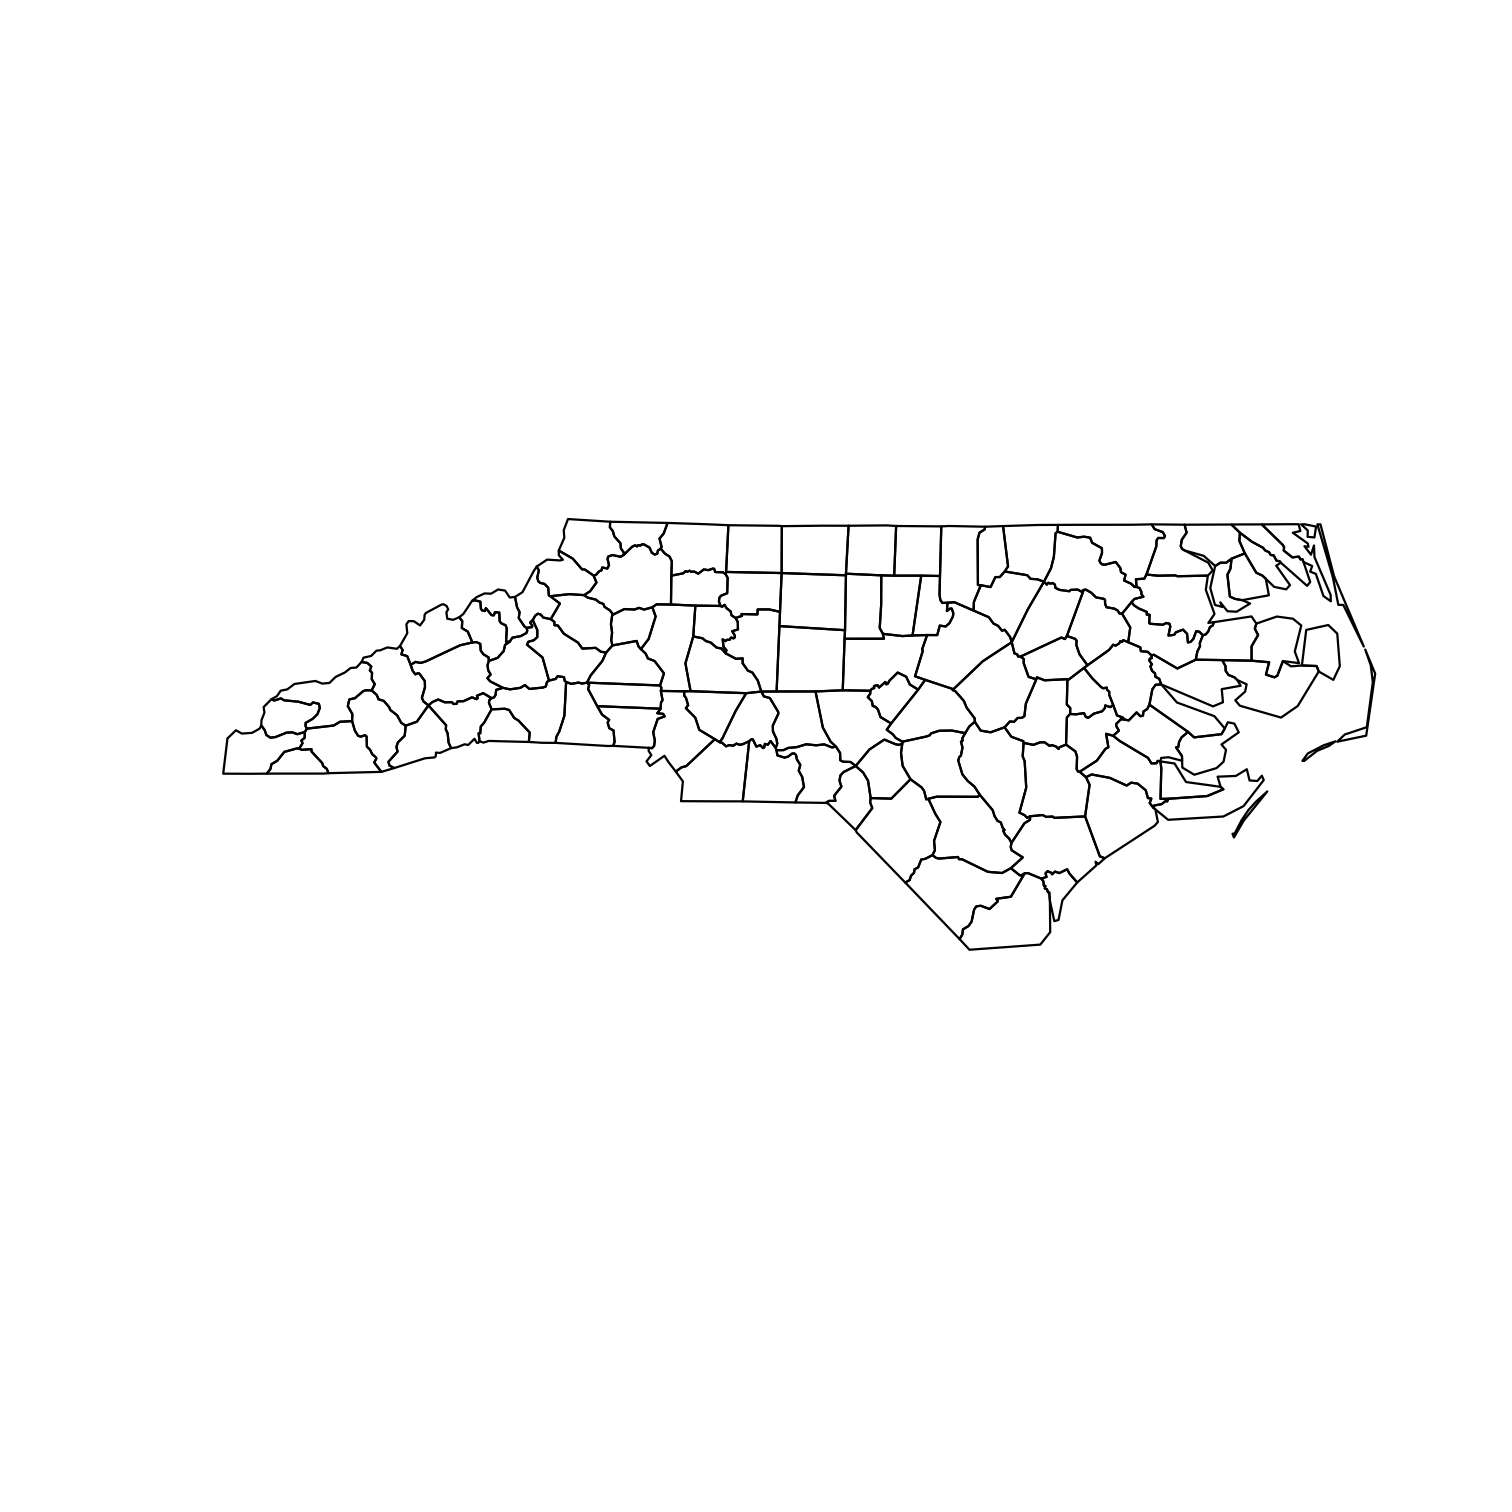
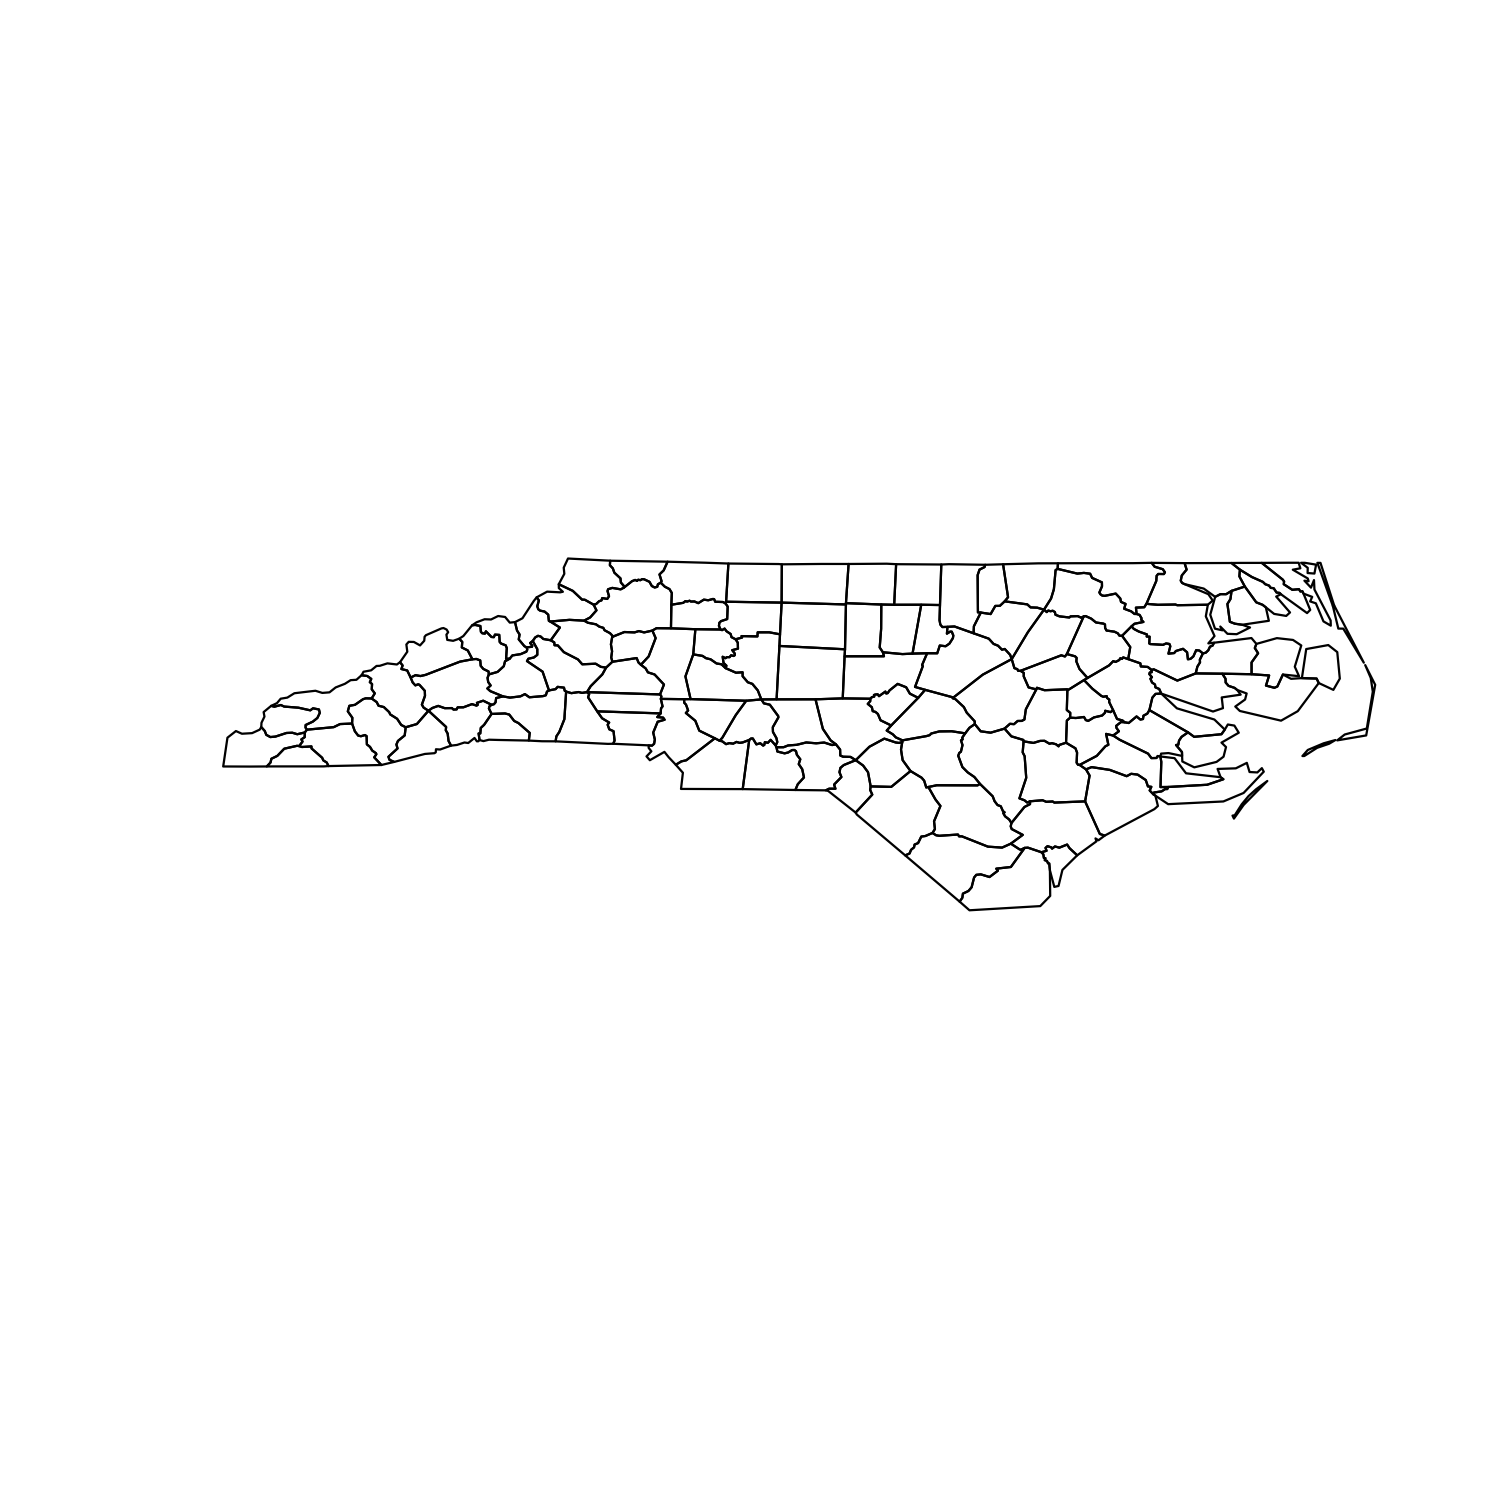
projection example

Changed region(s): [[0.1554, 0.3419, 0.9325, 0.6217]]

diff --git a/static/slides/02-slides.html b/static/slides/02-slides.html
@@ -5,7 +5,7 @@
     <meta charset="utf-8" />
     <meta name="author" content="Matt Williamson" />
     <meta name="date" content="2021-08-31" />
-    <script src="libs/header-attrs-2.10/header-attrs.js"></script>
+    <script src="libs/header-attrs-2.9/header-attrs.js"></script>
     <link href="libs/remark-css-0.0.1/default.css" rel="stylesheet" />
     <link rel="stylesheet" href="css/mawtheme2.css" type="text/css" />
     <link rel="stylesheet" href="css/animate.css" type="text/css" />
@@ -214,8 +214,23 @@ name: crs
 
 - Lots of projection info available at [spatialreference.org](https://spatialreference.org/)
 ---
+# The Coordinate Reference System
+
+### PROJ4 (deprecated)
+
+`+proj=eqc +lat_ts=0 +lat_0=0 +lon_0=0 +x_0=0 +y_0=0 +datum=WGS84 +units=m +no_defs`
+
+### EPSG
+
+`EPSG:4087`
+
+### WKT
+
+`PROJCS["WGS 84 / World Equidistant Cylindrical",GEOGCS["WGS 84",DATUM["WGS_1984",SPHEROID["WGS 84",6378137,298.257223563,AUTHORITY["EPSG","7030"]],AUTHORITY["EPSG","6326"]],PRIMEM["Greenwich",0,AUTHORITY["EPSG","8901"]],UNIT["degree",0.0174532925199433,AUTHORITY["EPSG","9122"]],AUTHORITY["EPSG","4326"]],PROJECTION["Equirectangular"],PARAMETER["latitude_of_origin",0],PARAMETER["central_meridian",0],PARAMETER["false_easting",0],PARAMETER["false_northing",0],UNIT["metre",1,AUTHORITY["EPSG","9001"]],AXIS["X",EAST],AXIS["Y",NORTH],AUTHORITY["EPSG","4087"]]`
+
+---
 # The Coordinate Reference System (CRS)
-Using NAD27, a geodetic datum
+Using WGS84 World Equidistant Cylindrical
 
 .pull-left[
 
@@ -228,7 +243,7 @@ nc.sf &lt;-  st_read(
 
 ```
 ## Reading layer `sids' from data source 
-##   `/Library/Frameworks/R.framework/Versions/4.0/Resources/library/maptools/shapes' 
+##   `/Library/Frameworks/R.framework/Versions/4.1/Resources/library/maptools/shapes' 
 ##   using driver `ESRI Shapefile'
 ## Simple feature collection with 100 features and 14 fields
 ## Geometry type: MULTIPOLYGON
@@ -238,7 +253,9 @@ nc.sf &lt;-  st_read(
 ```
 
 ```r
-st_crs(nc.sf) = 4267
+nc.sf &lt;- nc.sf %&gt;% 
+  st_set_crs(4267) %&gt;% 
+  st_transform(4087)
 #plot(st_geometry(nc.sf))
 ```
 ]
@@ -248,9 +265,8 @@ st_crs(nc.sf) = 4267
 
 ]
 ---
-# Projection: The Datum
-
-Using NAD83 for North Carolina
+# The Coordinate Reference System (CRS)
+Using NAD27 a local geodetic datum for North America
 
 .pull-left[
 
@@ -263,7 +279,7 @@ nc.sf &lt;-  st_read(
 
 ```
 ## Reading layer `sids' from data source 
-##   `/Library/Frameworks/R.framework/Versions/4.0/Resources/library/maptools/shapes' 
+##   `/Library/Frameworks/R.framework/Versions/4.1/Resources/library/maptools/shapes' 
 ##   using driver `ESRI Shapefile'
 ## Simple feature collection with 100 features and 14 fields
 ## Geometry type: MULTIPOLYGON
@@ -273,13 +289,86 @@ nc.sf &lt;-  st_read(
 ```
 
 ```r
-st_crs(nc.sf) = 3358
+nc.sf &lt;- nc.sf %&gt;% 
+  st_set_crs(4267) 
 #plot(st_geometry(nc.sf))
 ```
 ]
 
 .pull-right[
 &lt;img src="02-slides_files/figure-html/plotproj2-1.png" width="504" style="display: block; margin: auto;" /&gt;
+
+]
+---
+# The Coordinate Reference System (CRS)
+Using NAD83 adjusted for North Carolina
+
+.pull-left[
+
+```r
+library(sf)
+nc.sf &lt;-  st_read(
+  system.file("shapes/", package="maptools"), 
+  "sids")
+```
+
+```
+## Reading layer `sids' from data source 
+##   `/Library/Frameworks/R.framework/Versions/4.1/Resources/library/maptools/shapes' 
+##   using driver `ESRI Shapefile'
+## Simple feature collection with 100 features and 14 fields
+## Geometry type: MULTIPOLYGON
+## Dimension:     XY
+## Bounding box:  xmin: -84.32385 ymin: 33.88199 xmax: -75.45698 ymax: 36.58965
+## CRS:           NA
+```
+
+```r
+nc.sf &lt;- nc.sf %&gt;% 
+  st_set_crs(4267) %&gt;% 
+  st_transform(3358)
+#plot(st_geometry(nc.sf))
+```
+]
+
+.pull-right[
+&lt;img src="02-slides_files/figure-html/plotproj3-1.png" width="504" style="display: block; margin: auto;" /&gt;
+
+]
+---
+# The Coordinate Reference System (CRS)
+Using UTM Zone 17N
+
+.pull-left[
+
+```r
+library(sf)
+nc.sf &lt;-  st_read(
+  system.file("shapes/", package="maptools"), 
+  "sids")
+```
+
+```
+## Reading layer `sids' from data source 
+##   `/Library/Frameworks/R.framework/Versions/4.1/Resources/library/maptools/shapes' 
+##   using driver `ESRI Shapefile'
+## Simple feature collection with 100 features and 14 fields
+## Geometry type: MULTIPOLYGON
+## Dimension:     XY
+## Bounding box:  xmin: -84.32385 ymin: 33.88199 xmax: -75.45698 ymax: 36.58965
+## CRS:           NA
+```
+
+```r
+nc.sf &lt;- nc.sf %&gt;% 
+  st_set_crs(4267) %&gt;% 
+  st_transform(3747)
+#plot(st_geometry(nc.sf))
+```
+]
+
+.pull-right[
+&lt;img src="02-slides_files/figure-html/plotproj4-1.png" width="504" style="display: block; margin: auto;" /&gt;
 ]
 
 ---
